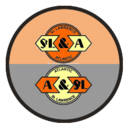
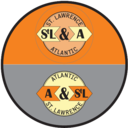
1833NE UI: GMT's ferry markers and tokens, the bonus tab, ferries on cards
The ferry markers and the A&StL, B&L, B&P and joint tokens come from the 2026
rulebook's setup picture (p. 3), rendered from its vector art. The New/Last bonus
shows as a tab on its ferry, the Luxury ferry as a 2× badge, and each
corporation's card shows the ferries it owns and the bonus beside one.

diff --git a/games/1833ne-ui/src/lib/presentation.ts b/games/1833ne-ui/src/lib/presentation.ts
@@ -1,10 +1,17 @@
 import {
+    FerryBonus,
+    ferryDefinition,
     FirstRoundReservedHexes,
     MarketZones1833NE,
     Phases1833NE,
     type State1833NE
 } from '@tabletop/1833ne'
-import { moneyFormat, type MapMarkerArt, type TitlePresentation } from '@tabletop/18xx-ui'
+import {
+    moneyFormat,
+    type CompanyMark,
+    type MapMarkerArt,
+    type TitlePresentation
+} from '@tabletop/18xx-ui'
 import { FerryArt, LuxuryFerryArt } from './ferryArt.js'
 import { CompanyNames1833NE } from './companyPresentation.js'
 import { PhaseChart1833NE } from './phaseChart.js'
@@ -18,6 +25,7 @@ export const Presentation1833NE: TitlePresentation<State1833NE> = {
     phaseColors: PhaseColors1833NE,
     phaseChart: PhaseChart1833NE,
     markerArtFor: playedMarkerArt,
+    companyMarks: ferryMarks,
     privatePurchaseHeading: 'Available privates',
     privateTilePrompts: { P3: 'Lay free tiles in St. Jean (C4) and C6' },
     marketCell: { width: 36, height: 96 },
@@ -40,9 +48,14 @@ export const Presentation1833NE: TitlePresentation<State1833NE> = {
 
 type MarkerArt = Record<string, Record<string, MapMarkerArt>>
 
+// The bonus marker's sides: black as printed for New, softened for Last.
+const NewBonusFill = '#231f20'
+const LastBonusFill = '#4f4a45'
+
 /**
  * The board as play leaves it: the first-round building notes lapse once that round is done,
- * the ferries leave in phase IV, and the Luxury Ferry Service's ferry shows it.
+ * the ferries leave in phase IV, the New/Last bonus marker sits by its ferry, and the Luxury
+ * Ferry Service's ferry shows it.
  */
 function playedMarkerArt(state: State1833NE): MarkerArt {
     const art: MarkerArt = {}
@@ -53,12 +66,70 @@ function playedMarkerArt(state: State1833NE): MarkerArt {
     if (set && (set.number > 1 || set.roundNumber > 1 || set.completed))
         for (const locationId of Object.keys(FirstRoundReservedHexes))
             mark(locationId, 'first-round', { hidden: true })
-    if (Phases1833NE.isAtLeast(state.phaseId, 'IV'))
+    if (Phases1833NE.isAtLeast(state.phaseId, 'IV')) {
         for (const locationId of Object.keys(FerryArt)) mark(locationId, 'ferry', { hidden: true })
-    else
-        for (const ferry of state.ferries.filter((owned) => owned.luxury))
-            mark(ferry.locationId, 'ferry', {
-                token: { imageUrl: LuxuryFerryArt[ferry.locationId], place: 'corner' }
-            })
+        return art
+    }
+    const bonus = state.ferryBonus
+    for (const locationId of Object.keys(FerryArt)) {
+        const luxury = state.ferries.some(
+            (ferry) => ferry.locationId === locationId && ferry.luxury
+        )
+        if (!luxury && bonus?.locationId !== locationId) continue
+        mark(locationId, 'ferry', {
+            token: {
+                imageUrl: (luxury ? LuxuryFerryArt : FerryArt)[locationId],
+                place: 'corner',
+                ...(bonus?.locationId === locationId
+                    ? {
+                          tab:
+                              bonus.side === 'new'
+                                  ? {
+                                        label: `+${FerryBonus.new}`,
+                                        caption: 'NEW',
+                                        fill: NewBonusFill
+                                    }
+                                  : {
+                                        label: `+${FerryBonus.last}`,
+                                        caption: 'LAST',
+                                        fill: LastBonusFill
+                                    }
+                      }
+                    : {})
+            }
+        })
+    }
     return art
+}
+
+/** The ferries a corporation owns, as their markers sit on its mat, with the bonus beside one. */
+function ferryMarks(state: State1833NE, companyId: string): CompanyMark[] {
+    if (Phases1833NE.isAtLeast(state.phaseId, 'IV')) return []
+    return state.ferries
+        .filter((ferry) => ferry.companyId === companyId)
+        .flatMap((ferry): CompanyMark[] => {
+            const definition = ferryDefinition(ferry.locationId)
+            if (!definition) return []
+            const bonus =
+                state.ferryBonus?.locationId === ferry.locationId
+                    ? state.ferryBonus.side
+                    : undefined
+            const bonusAmount = bonus ? FerryBonus[bonus] : 0
+            const value = (definition.value + bonusAmount) * (ferry.luxury ? 2 : 1)
+            return [
+                {
+                    label: definition.name,
+                    imageUrl: (ferry.luxury ? LuxuryFerryArt : FerryArt)[ferry.locationId],
+                    description: `${definition.name} ferry: $${value} on its routes${ferry.luxury ? ', doubled by the Luxury Ferry Service' : ''}`
+                },
+                ...(bonus
+                    ? [
+                          {
+                              label: `+${bonusAmount} ${bonus === 'new' ? 'New' : 'Last'}`,
+                              description: `The ${bonus === 'new' ? 'New' : 'Last'} ferry bonus: +$${bonusAmount} on the ${definition.name} ferry`
+                          }
+                      ]
+                    : [])
+            ]
+        })
 }

diff --git a/games/1833ne-ui/src/lib/markerArt.spec.ts b/games/1833ne-ui/src/lib/markerArt.spec.ts
@@ -1,7 +1,7 @@
 import { describe, expect, it } from 'vitest'
 import { readFileSync } from 'node:fs'
 import type { State1833NE } from '@tabletop/1833ne'
-import { LuxuryFerryArt } from './ferryArt.js'
+import { FerryArt, LuxuryFerryArt } from './ferryArt.js'
 import { Presentation1833NE } from './presentation.js'
 
 const scenario = (name: string): State1833NE =>
@@ -29,5 +29,43 @@ describe('the board as play leaves it', () => {
         expect(['C26', 'E26', 'F27', 'F25', 'G26'].map((id) => art(state)[id]?.ferry)).toEqual(
             Array(5).fill({ hidden: true })
         )
+    })
+
+    it('tabs the ferry the New/Last bonus marker sits by', () => {
+        const state = scenario('first-operating-round')
+        state.ferries = [{ locationId: 'F25', companyId: 'B&P' }]
+        state.ferryBonus = { locationId: 'F25', side: 'new' }
+        expect(art(state).F25?.ferry).toEqual({
+            token: {
+                imageUrl: FerryArt.F25,
+                place: 'corner',
+                tab: { label: '+20', caption: 'NEW', fill: '#231f20' }
+            }
+        })
+        state.ferryBonus = { locationId: 'F25', side: 'last' }
+        expect(art(state).F25?.ferry).toEqual({
+            token: {
+                imageUrl: FerryArt.F25,
+                place: 'corner',
+                tab: { label: '+10', caption: 'LAST', fill: '#4f4a45' }
+            }
+        })
+    })
+
+    it('marks a corporation’s card with its ferries and the bonus beside one', () => {
+        const state = scenario('first-operating-round')
+        state.ferries = [
+            { locationId: 'F25', companyId: 'B&P' },
+            { locationId: 'F27', companyId: 'B&P', luxury: true }
+        ]
+        state.ferryBonus = { locationId: 'F27', side: 'last' }
+        const marks = Presentation1833NE.companyMarks?.(state, 'B&P') ?? []
+        expect(marks.map((mark) => [mark.label, mark.imageUrl])).toEqual([
+            ['Providence', FerryArt.F25],
+            ['Stonington', LuxuryFerryArt.F27],
+            ['+10 Last', undefined]
+        ])
+        expect(marks[1].description).toContain('$60')
+        expect(Presentation1833NE.companyMarks?.({ ...state, phaseId: 'IV' }, 'B&P')).toEqual([])
     })
 })

diff --git a/games/1833ne-ui/src/lib/ferryArt.ts b/games/1833ne-ui/src/lib/ferryArt.ts
@@ -1,13 +1,13 @@
-import AllynsPointFerry from './images/ferries/allyns-point.svg'
-import AllynsPointLuxury from './images/ferries/allyns-point-luxury.svg'
-import FallRiverFerry from './images/ferries/fall-river.svg'
-import FallRiverLuxury from './images/ferries/fall-river-luxury.svg'
-import NewHavenFerry from './images/ferries/new-haven.svg'
-import NewHavenLuxury from './images/ferries/new-haven-luxury.svg'
-import ProvidenceFerry from './images/ferries/providence.svg'
-import ProvidenceLuxury from './images/ferries/providence-luxury.svg'
-import StoningtonFerry from './images/ferries/stonington.svg'
-import StoningtonLuxury from './images/ferries/stonington-luxury.svg'
+import AllynsPointFerry from './images/ferries/allyns-point.png'
+import AllynsPointLuxury from './images/ferries/allyns-point-luxury.png'
+import FallRiverFerry from './images/ferries/fall-river.png'
+import FallRiverLuxury from './images/ferries/fall-river-luxury.png'
+import NewHavenFerry from './images/ferries/new-haven.png'
+import NewHavenLuxury from './images/ferries/new-haven-luxury.png'
+import ProvidenceFerry from './images/ferries/providence.png'
+import ProvidenceLuxury from './images/ferries/providence-luxury.png'
+import StoningtonFerry from './images/ferries/stonington.png'
+import StoningtonLuxury from './images/ferries/stonington-luxury.png'
 
 /** Each ferry's marker, a steamship over its colour, by its hex. */
 export const FerryArt: Readonly<Record<string, string>> = {
